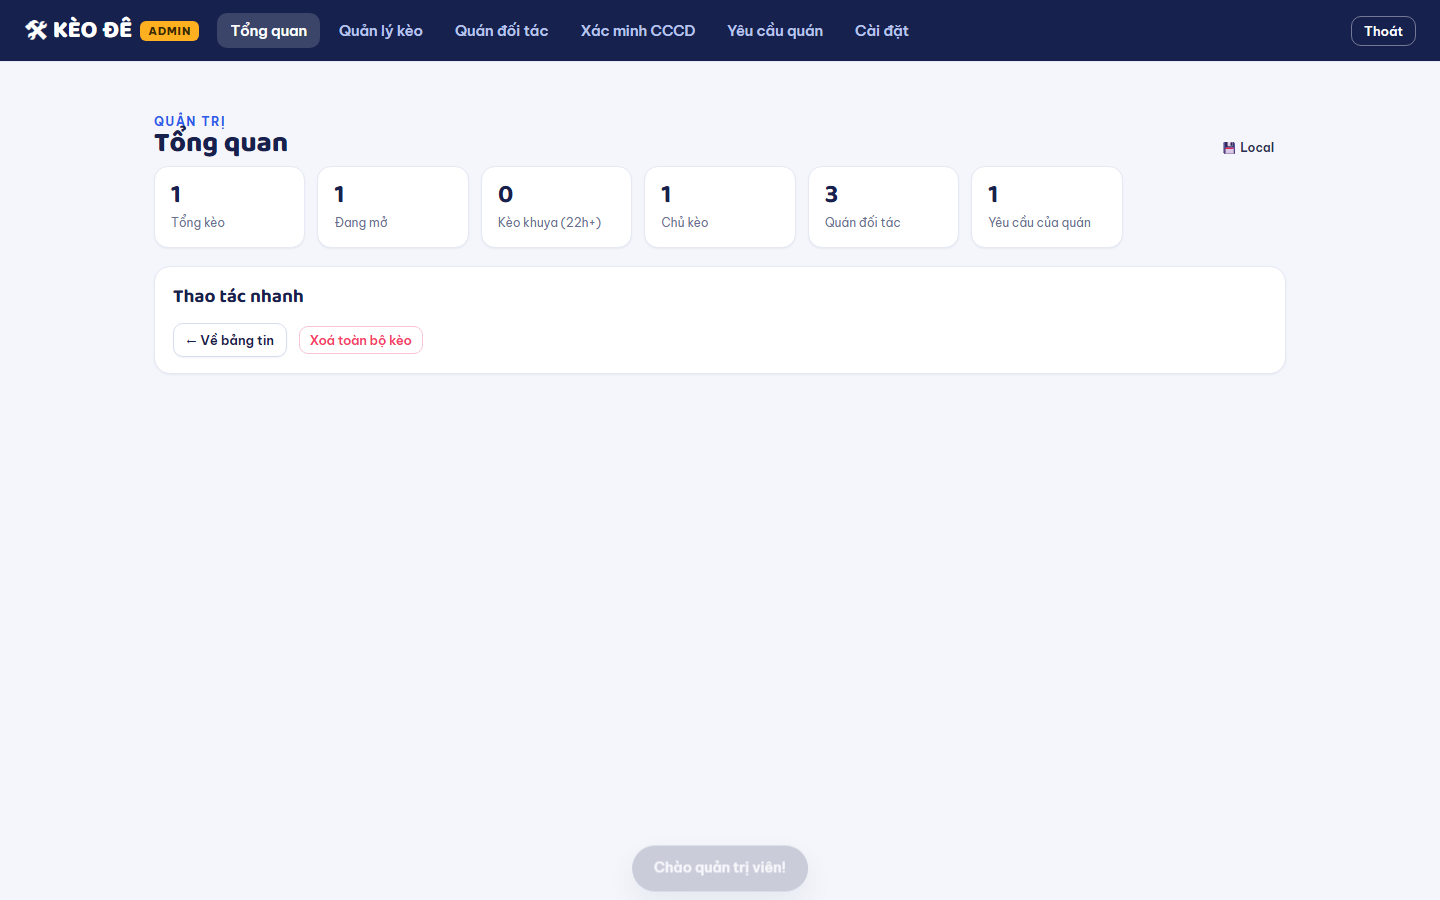
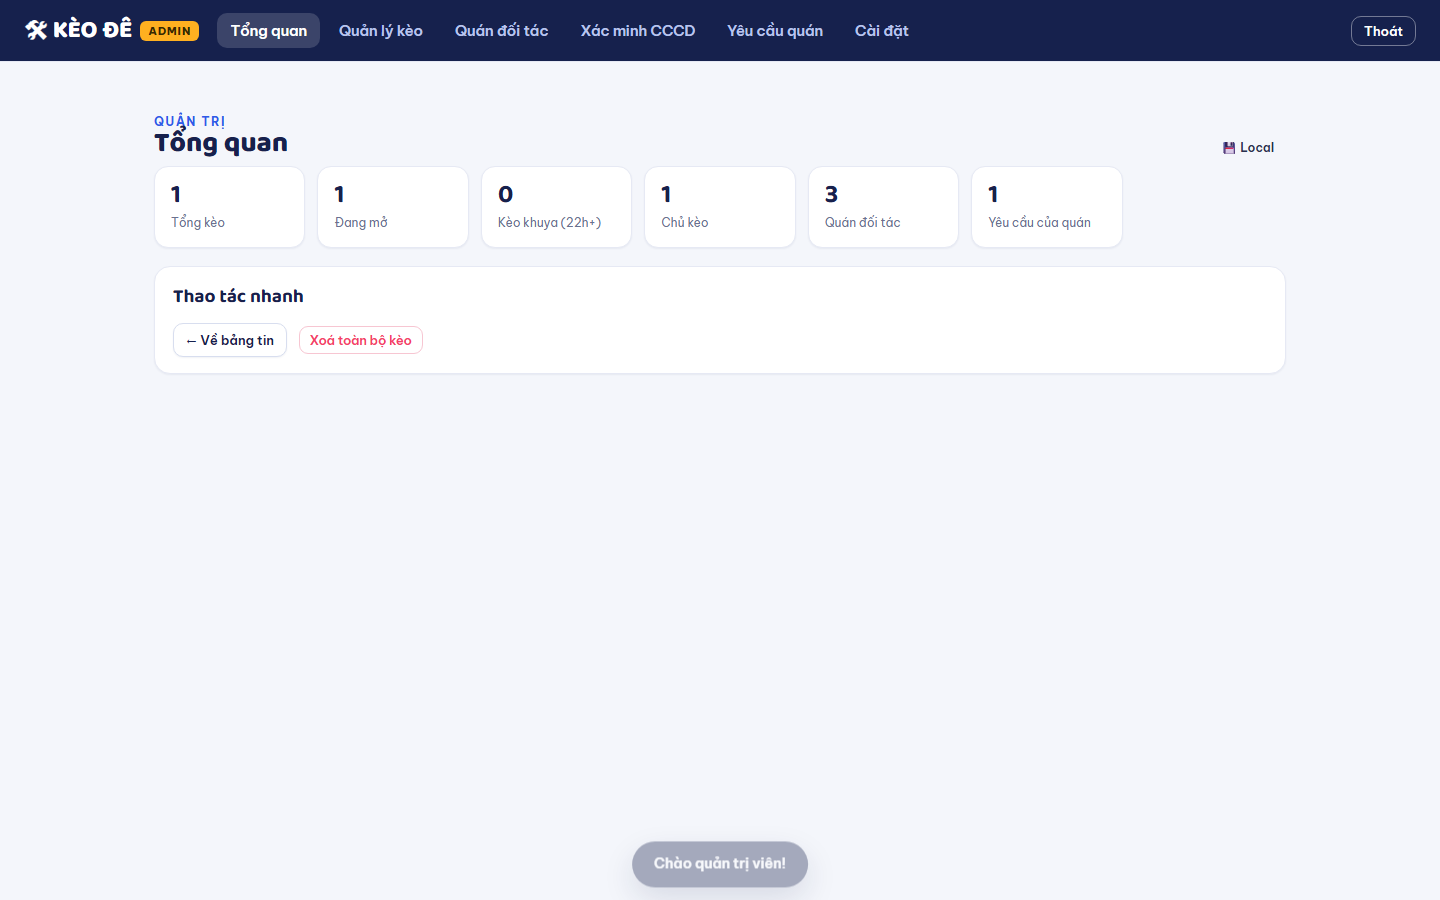
Onboarding chỉ chạy 1 lần: đã có hồ sơ → vào thẳng web; logout giữ hồ sơ

Changed region(s): [[0.4375, 0.9333, 0.5625, 0.9956]]

diff --git a/scripts/patch-onboard-once.js b/scripts/patch-onboard-once.js
@@ -1,0 +1,40 @@
+// Onboarding chỉ chạy 1 LẦN: đã có hồ sơ khớp tài khoản → vào thẳng app; logout giữ hồ sơ.
+const fs = require('fs');
+let h = fs.readFileSync('keo-de.html', 'utf8');
+const missing = [];
+function rep(a, b, label) {
+  if (!h.includes(a)) { missing.push(label || a.slice(0, 60)); return; }
+  h = h.replace(a, () => b);
+}
+
+/* 1. startSession: hồ sơ đã có (và khớp tài khoản) → vào thẳng web */
+rep(`function startSession(s){
+  session=s;save('keode.session.v1',s);
+  toast('Đăng nhập thành công: '+(s.name||'bạn'));
+  if(s.provider!=='demo'&&fbValid(FB)&&MODE!=='cloud'&&!cloudConnecting){cloudConnecting=true;initCloud();}
+  route('onboard');applyRoute();
+}`,
+`function startSession(s){
+  session=s;save('keode.session.v1',s);
+  if(s.provider!=='demo'&&fbValid(FB)&&MODE!=='cloud'&&!cloudConnecting){cloudConnecting=true;initCloud();}
+  const sameProfile=profile&&(profile.email||'')===(s.email||''); // đã có hồ sơ của chính tài khoản này
+  if(sameProfile){
+    route('discover');applyRoute();
+    toast('Chào lại '+profile.name+'! Vào kèo thôi.');
+  }else{
+    route('onboard');applyRoute(); // lần đầu → onboarding đúng 1 lần
+  }
+}`, 'startSession once');
+
+/* 2. logout: giữ hồ sơ → đăng nhập lại vào thẳng web */
+rep(`  session=null;profile=null;
+  if(window.firebase)try{firebase.auth().signOut();}catch(e){}
+  localStorage.removeItem('keode.session.v1');
+  localStorage.removeItem('keode.profile.v1');`,
+`  session=null;
+  if(window.firebase)try{firebase.auth().signOut();}catch(e){}
+  localStorage.removeItem('keode.session.v1'); // giữ profile — đăng nhập lại vào thẳng web`, 'logout keep profile');
+
+fs.writeFileSync('keo-de.html', h);
+console.log(missing.length ? 'MISSING: ' + missing.join(' | ') : 'onboard-once OK');
+process.exit(missing.length ? 1 : 0);

diff --git a/keo-de.html b/keo-de.html
@@ -1083,9 +1083,14 @@ async function initCloud(){
 }
 function startSession(s){
   session=s;save('keode.session.v1',s);
-  toast('Đăng nhập thành công: '+(s.name||'bạn'));
   if(s.provider!=='demo'&&fbValid(FB)&&MODE!=='cloud'&&!cloudConnecting){cloudConnecting=true;initCloud();}
-  route('onboard');applyRoute();
+  const sameProfile=profile&&(profile.email||'')===(s.email||''); // đã có hồ sơ của chính tài khoản này
+  if(sameProfile){
+    route('discover');applyRoute();
+    toast('Chào lại '+profile.name+'! Vào kèo thôi.');
+  }else{
+    route('onboard');applyRoute(); // lần đầu → onboarding đúng 1 lần
+  }
 }
 
 /* ================= HELPERS ================= */
@@ -2117,10 +2122,9 @@ $('#usermenu').addEventListener('click',e=>{
   if(e.target.closest('#kycMenuBtn')){$('#usermenu').classList.add('hide');openKyc();return;}
   if(!e.target.closest('#logoutBtn'))return;
   if(!confirm('Đăng xuất khỏi KÈO ĐÊ? (kèo đã tạo vẫn giữ trên máy)'))return;
-  session=null;profile=null;
+  session=null;
   if(window.firebase)try{firebase.auth().signOut();}catch(e){}
-  localStorage.removeItem('keode.session.v1');
-  localStorage.removeItem('keode.profile.v1');
+  localStorage.removeItem('keode.session.v1'); // giữ profile — đăng nhập lại vào thẳng web
   $('#usermenu').classList.add('hide');
   route('discover');applyRoute();
   toast('Đã đăng xuất. Hẹn gặp lại!');

diff --git a/scripts/patch-test-relogin.js b/scripts/patch-test-relogin.js
@@ -1,0 +1,20 @@
+// Cập nhật test relogin: đăng nhập lại → vào thẳng app (không onboarding).
+const fs = require('fs');
+let t = fs.readFileSync('scripts/test-keode.mjs', 'utf8');
+const lines = t.split('\n');
+const iSet = lines.findIndex(l => l.includes("localStorage.setItem('keode.session.v1'") && l.includes("provider:'demo'") && lines.findIndex(x => x.includes('logout | login')) > -1 && lines.indexOf(l) > lines.findIndex(x => x.includes('logout | login')));
+if (iSet < 0) { console.log('seed line not found after logout'); process.exit(1); }
+// tìm dòng 'login lại | cards' sau đó
+const iLog = lines.findIndex((l, idx) => idx > iSet && l.includes("login lại | cards ="));
+if (iLog < 0) { console.log('login-lại log not found'); process.exit(1); }
+const before = lines.slice(0, iSet);
+const after = lines.slice(iLog);
+const newBlock = [
+  "await page.evaluate(() => { location.hash = 'discover'; });",
+  "await page.reload({ waitUntil: 'networkidle' });",
+  "console.log('login lại | vào thẳng app (không onboarding)?', await page.locator('#view-app:not(.hide)').count() === 1,",
+  "  '| onboarding ẩn?', await page.locator('#view-onboard.hide').count() === 1);",
+];
+t = [...before, ...newBlock, ...after].join('\n');
+fs.writeFileSync('scripts/test-keode.mjs', t);
+console.log('relogin block rewritten (giữ seed, bỏ onboarding fill)');

diff --git a/scripts/patch-test-relogin2.js b/scripts/patch-test-relogin2.js
@@ -1,0 +1,22 @@
+// Cách 2: tách file tại dòng 'logout | login hiện?' rồi thay block trong phần đuôi.
+const fs = require('fs');
+let t = fs.readFileSync('scripts/test-keode.mjs', 'utf8');
+const marker = "console.log('logout | login hiện?'";
+const idx = t.indexOf(marker);
+if (idx < 0) { console.log('marker not found'); process.exit(1); }
+const head = t.slice(0, idx);
+let tail = t.slice(idx);
+
+const oldChunk = `await page.fill('#obDob', '2004-11-27');
+await page.click('#obNext');
+await page.click('#obDistricts .pchip:nth-child(1)');
+await page.click('#obLikes .pchip:nth-child(1)');
+await page.click('#obDone');
+await page.waitForSelector('#view-app:not(.hide)');`;
+if (!tail.includes(oldChunk)) { console.log('old onboarding chunk not found in tail'); process.exit(1); }
+tail = tail.replace(oldChunk, `console.log('login lại | vào thẳng app (không onboarding)?', await page.locator('#view-app:not(.hide)').count() === 1,
+  '| onboarding ẩn?', await page.locator('#view-onboard.hide').count() === 1);`);
+tail = tail.replace("location.hash = 'onboard';", "location.hash = 'discover';");
+
+fs.writeFileSync('scripts/test-keode.mjs', head + tail);
+console.log('relogin block OK');
